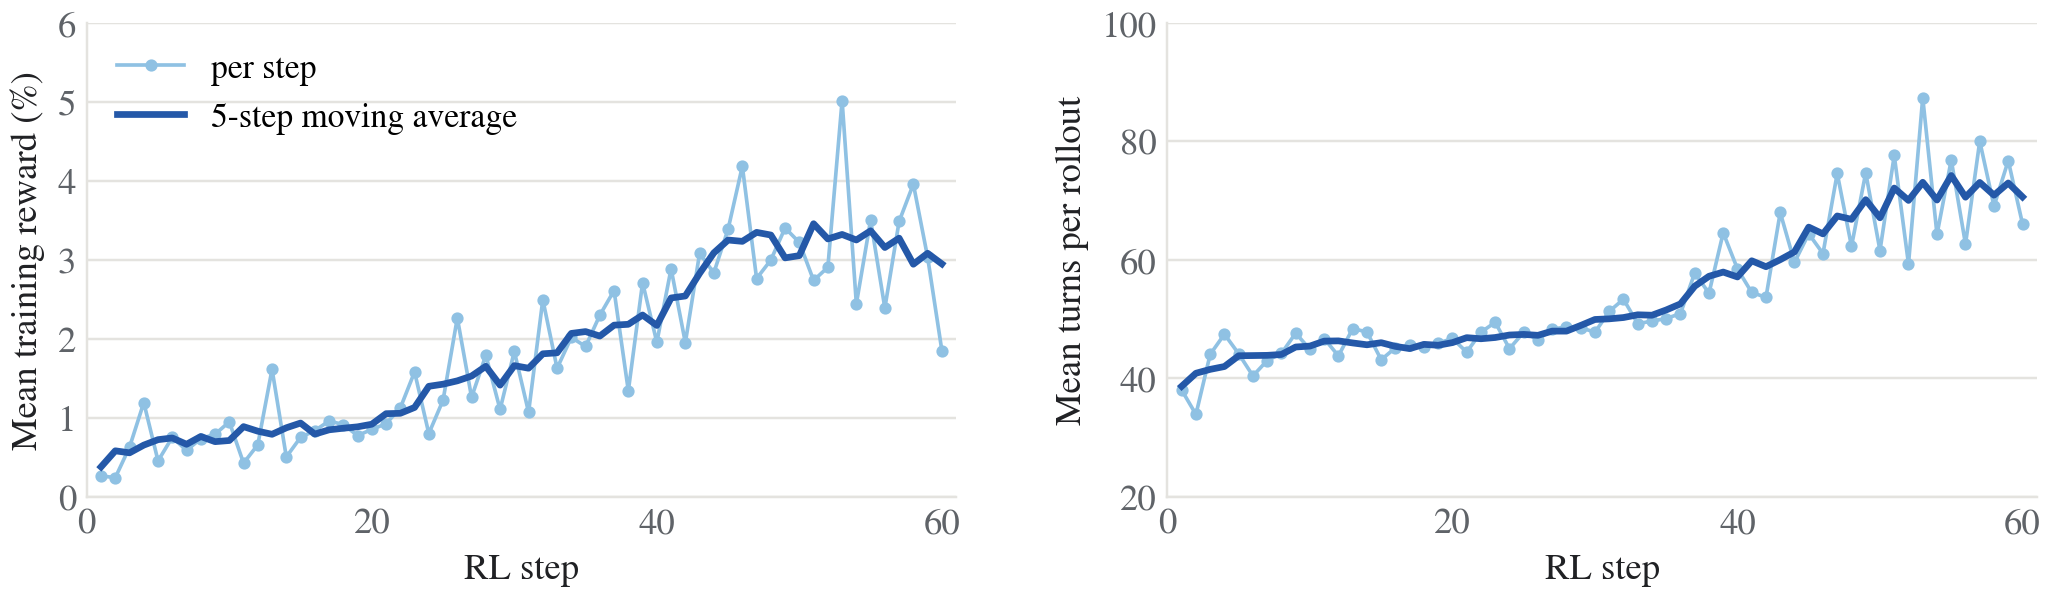
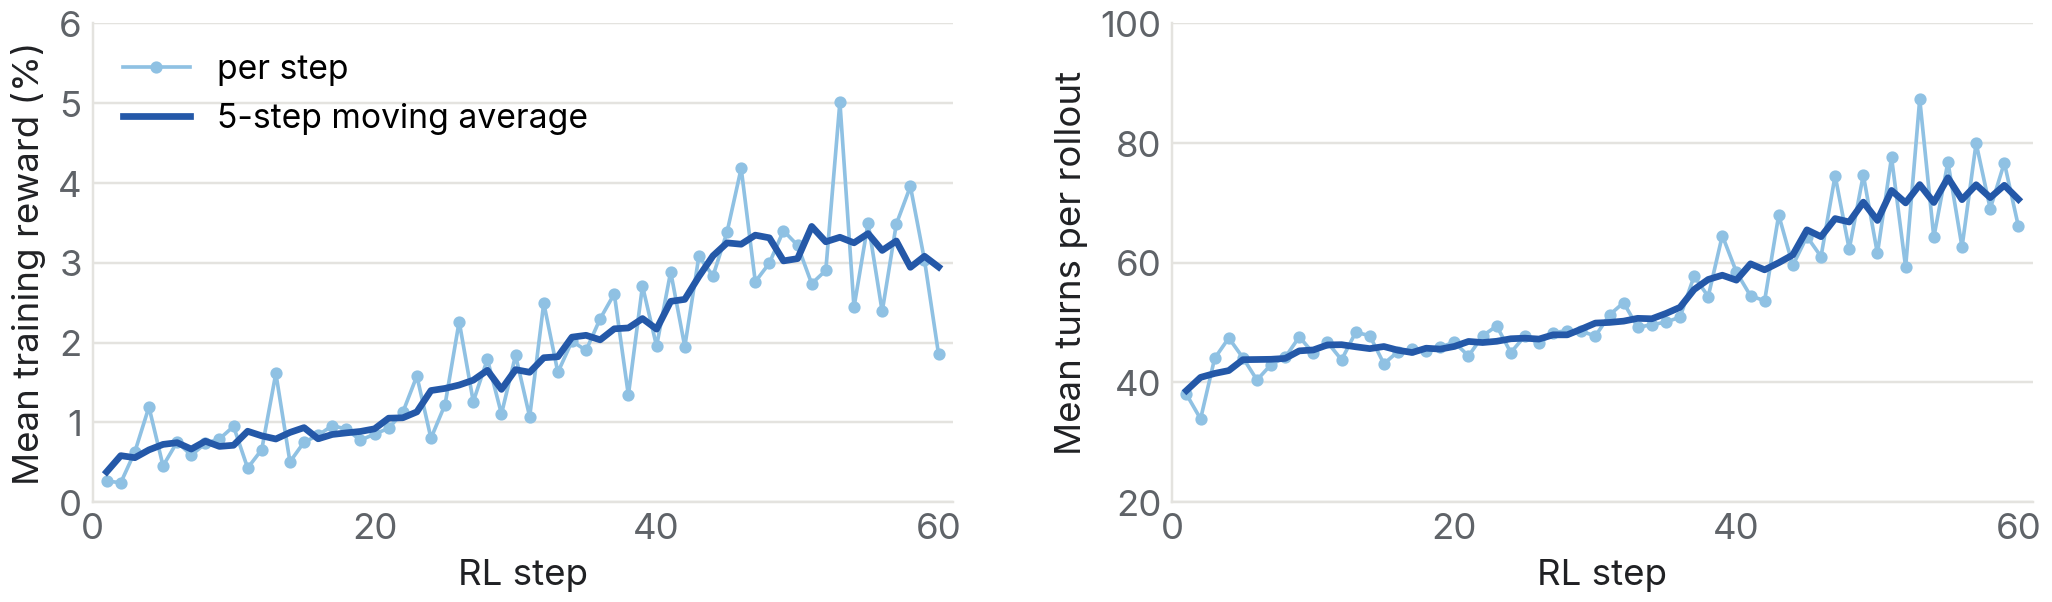
Render all figures in Inter to match captions; drop Figure 4 labels

diff --git a/index.html b/index.html
@@ -13,7 +13,7 @@
 <link rel="preconnect" href="https://fonts.googleapis.com">
 <link rel="preconnect" href="https://fonts.gstatic.com" crossorigin>
 <link rel="stylesheet" href="https://fonts.googleapis.com/css2?family=Inter:wght@400;500;600&display=swap">
-<link rel="stylesheet" href="style.css?v=cdb9aa00">
+<link rel="stylesheet" href="style.css?v=bf577321">
 </head>
 <body>
 <main>
@@ -54,21 +54,21 @@
 <p><b>Long-horizon agentic RL improves across harnesses.</b> Trained in GitHub Copilot CLI, the policy improves ProgramBench in all harnesses we test, including three unseen during training: Claude Code (+10.3), Codex CLI (+8.3), and mini-SWE-agent (+4.1). Under an extended six-hour budget, Claude Code goes from 19.0 to 27.6.</p>
 
 <figure class="narrow">
-<img src="assets/main_result.gif" width="1385" height="585" alt="ProgramBench pass rate before and after RL across four harnesses">
+<img src="assets/main_result.gif?v=a1bc9901" width="1421" height="586" alt="ProgramBench pass rate before and after RL across four harnesses">
 <figcaption><b>Figure 1.</b> ProgramBench pass rate of Qwen3.6-35B-A3B before and after RL on ProgramLab, with a two-hour budget. RL runs only in GitHub Copilot CLI, yet the gains carry over to all four harnesses.</figcaption>
 </figure>
 
 <p><b>Agent learns to write compilable programs during RL.</b> During RL training with 1024 rollouts per step(64 task * 16 rollout), rollouts grow from about 43 to 72 turns while mean training reward rises with 8× more rollouts ending with a compiling program (3.4% → 27.9%), under 2-hour rollout and 128k context budget.</p>
 
 <figure>
-<img src="assets/training_reward_turns.png" width="2051" height="597" alt="Training reward and turns per rollout during single-agent RL" loading="lazy">
+<img src="assets/training_reward_turns.png?v=0ce5b56a" width="2052" height="602" alt="Training reward and turns per rollout during single-agent RL" loading="lazy">
 <figcaption><b>Figure 2.</b> Single-agent RL training on ProgramLab. <b>Left:</b> mean training reward at each step. <b>Right:</b> mean turns per rollout at each step.</figcaption>
 </figure>
 
 <p><b>Multi-agent RL also works.</b> RL on ProgramLab raises a five-agent Qwen3.6-35B-A3B team from 17.2% to 25.0% (+7.9 points) on ProgramBench under a 30-minute budget.</p>
 
 <figure class="w80">
-<img src="assets/marl_eval.gif" width="1255" height="595" alt="Five-agent team pass rate during multi-agent RL" loading="lazy">
+<img src="assets/marl_eval.gif?v=44e8ecb9" width="1273" height="593" alt="Five-agent team pass rate during multi-agent RL" loading="lazy">
 <figcaption><b>Figure 3.</b> ProgramBench pass rate of the five-agent team during multi-agent RL, on all 200 tasks with a 30-minute budget.</figcaption>
 </figure>
 
@@ -88,12 +88,12 @@
 
 <figure class="small">
 <div class="plot">
-<img src="assets/coverage.png?v=9880ba70" width="1522" height="1024" alt="Line coverage against project size, with three example projects" loading="lazy">
-<a class="pt easy" href="https://github.com/FiloSottile/mkcert" target="_blank" rel="noopener" style="left: 42.69%; top: 23.53%" aria-label="FiloSottile/mkcert on GitHub"><span class="dot"></span><span class="card"><span class="repo">FiloSottile/mkcert</span><span class="meta"><span class="tag">Easy</span>Go · ~1.4K lines · 121 tests</span><span class="bar"><span style="width: 91.9%"></span></span><span class="meta">91.9% line coverage<span class="open">GitHub ↗</span></span></span></a>
-<a class="pt medium" href="https://github.com/PaulJuliusMartinez/jless" target="_blank" rel="noopener" style="left: 53.26%; top: 32.38%" aria-label="PaulJuliusMartinez/jless on GitHub"><span class="dot"></span><span class="card"><span class="repo">PaulJuliusMartinez/jless</span><span class="meta"><span class="tag">Medium</span>Rust · ~11K lines · 106 tests</span><span class="bar"><span style="width: 77.8%"></span></span><span class="meta">77.8% line coverage<span class="open">GitHub ↗</span></span></span></a>
-<a class="pt hard" href="https://github.com/caddyserver/caddy" target="_blank" rel="noopener" style="left: 64.45%; top: 55.18%" aria-label="caddyserver/caddy on GitHub"><span class="dot"></span><span class="card"><span class="repo">caddyserver/caddy</span><span class="meta"><span class="tag">Hard</span>Go · ~99K lines · 262 tests</span><span class="bar"><span style="width: 41.3%"></span></span><span class="meta">41.3% line coverage<span class="open">GitHub ↗</span></span></span></a>
+<img src="assets/coverage.png?v=7c5b69be" width="1522" height="1024" alt="Line coverage against project size, with three example projects" loading="lazy">
+<a class="pt easy" href="https://github.com/FiloSottile/mkcert" target="_blank" rel="noopener" style="left: 42.13%; top: 24.83%" aria-label="FiloSottile/mkcert on GitHub"><span class="dot"></span><span class="card"><span class="repo">FiloSottile/mkcert</span><span class="meta"><span class="tag">Easy</span>Go · ~1.4K lines · 121 tests</span><span class="bar"><span style="width: 91.9%"></span></span><span class="meta">91.9% line coverage<span class="open">GitHub ↗</span></span></span></a>
+<a class="pt medium" href="https://github.com/PaulJuliusMartinez/jless" target="_blank" rel="noopener" style="left: 52.63%; top: 33.60%" aria-label="PaulJuliusMartinez/jless on GitHub"><span class="dot"></span><span class="card"><span class="repo">PaulJuliusMartinez/jless</span><span class="meta"><span class="tag">Medium</span>Rust · ~11K lines · 106 tests</span><span class="bar"><span style="width: 77.8%"></span></span><span class="meta">77.8% line coverage<span class="open">GitHub ↗</span></span></span></a>
+<a class="pt hard" href="https://github.com/caddyserver/caddy" target="_blank" rel="noopener" style="left: 63.75%; top: 56.19%" aria-label="caddyserver/caddy on GitHub"><span class="dot"></span><span class="card"><span class="repo">caddyserver/caddy</span><span class="meta"><span class="tag">Hard</span>Go · ~99K lines · 262 tests</span><span class="bar"><span style="width: 41.3%"></span></span><span class="meta">41.3% line coverage<span class="open">GitHub ↗</span></span></span></a>
 </div>
-<figcaption><b>Figure 4.</b> Line coverage of each hidden test suite against project size, falling from over 90% under 5K lines to 42.0% above 50K lines. Hover over a labeled project for details, or click to open it on GitHub.</figcaption>
+<figcaption><b>Figure 4.</b> Line coverage of each hidden test suite against project size, falling from over 90% under 5K lines to 42.0% above 50K lines. Hover over a highlighted point for details, or click to open it on GitHub.</figcaption>
 </figure>
 
 <h3>Why ProgramLab is suitable for RL</h3>
@@ -116,7 +116,7 @@
 </ol>
 
 <figure>
-<img src="assets/overview.gif" width="2047" height="875" alt="Overview of ProgramLab task construction and RL" loading="lazy">
+<img src="assets/overview.gif?v=a91a72b1" width="2047" height="875" alt="Overview of ProgramLab task construction and RL" loading="lazy">
 <figcaption><b>Figure 5.</b> Overview of ProgramLab. (a) Agents turn public Go, Rust, and C/C++ projects into packaged tasks with hidden tests. (b) During RL, the coding agent probes the locked executable in a cleanroom, writes a new program, and is rewarded by the fraction of hidden tests it passes.</figcaption>
 </figure>
 

diff --git a/style.css b/style.css
@@ -73,7 +73,7 @@ figcaption b { color: var(--ink); font-weight: 500; }
 @keyframes bob { 50% { transform: translateY(-2px); } }
 @keyframes ping { 0% { transform: scale(0.5); opacity: 0.5; } 80%, 100% { transform: scale(1.4); opacity: 0; } }
 @media (prefers-reduced-motion: reduce) { .dot, .dot::after { animation: none; } }
-.card { display: none; position: absolute; left: 50%; bottom: calc(100% + 2px); transform: translateX(-50%); width: 250px; background: #fff; color: var(--ink); border: 1px solid var(--line); border-radius: 12px; padding: 12px 14px; font-size: 13px; line-height: 1.45; text-align: left; box-shadow: 0 8px 24px rgba(0, 0, 0, 0.1); }
+.card { display: none; position: absolute; left: 50%; bottom: calc(100% + 2px); transform: translateX(-50%); width: 280px; background: #fff; color: var(--ink); border: 1px solid var(--line); border-radius: 12px; padding: 12px 14px; font-size: 13px; line-height: 1.45; text-align: left; box-shadow: 0 8px 24px rgba(0, 0, 0, 0.1); }
 .card .repo { display: block; font-size: 14px; font-weight: 600; margin-bottom: 6px; }
 .card .meta { display: flex; align-items: center; gap: 6px; color: var(--muted); }
 .card .tag { font-size: 11px; font-weight: 600; color: #08306b; background: var(--c); border-radius: 999px; padding: 1px 8px; }
